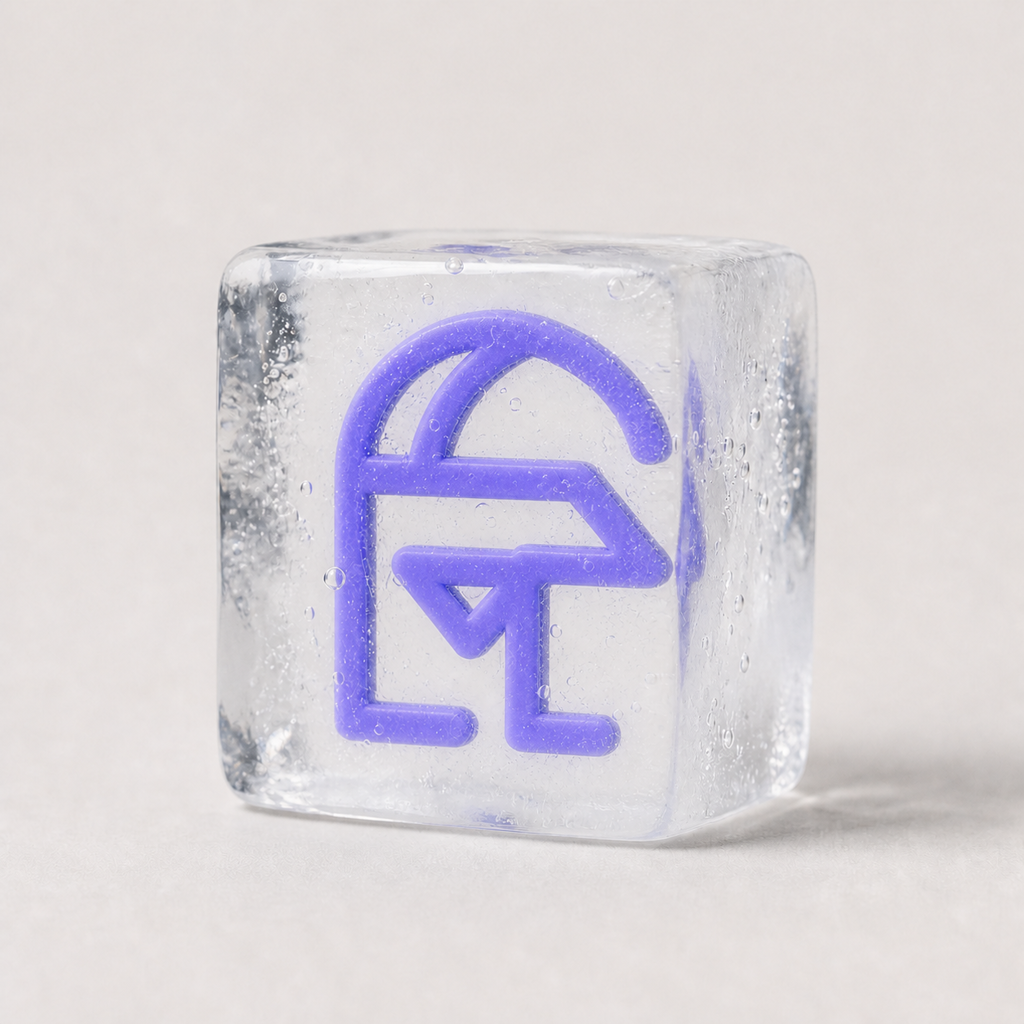
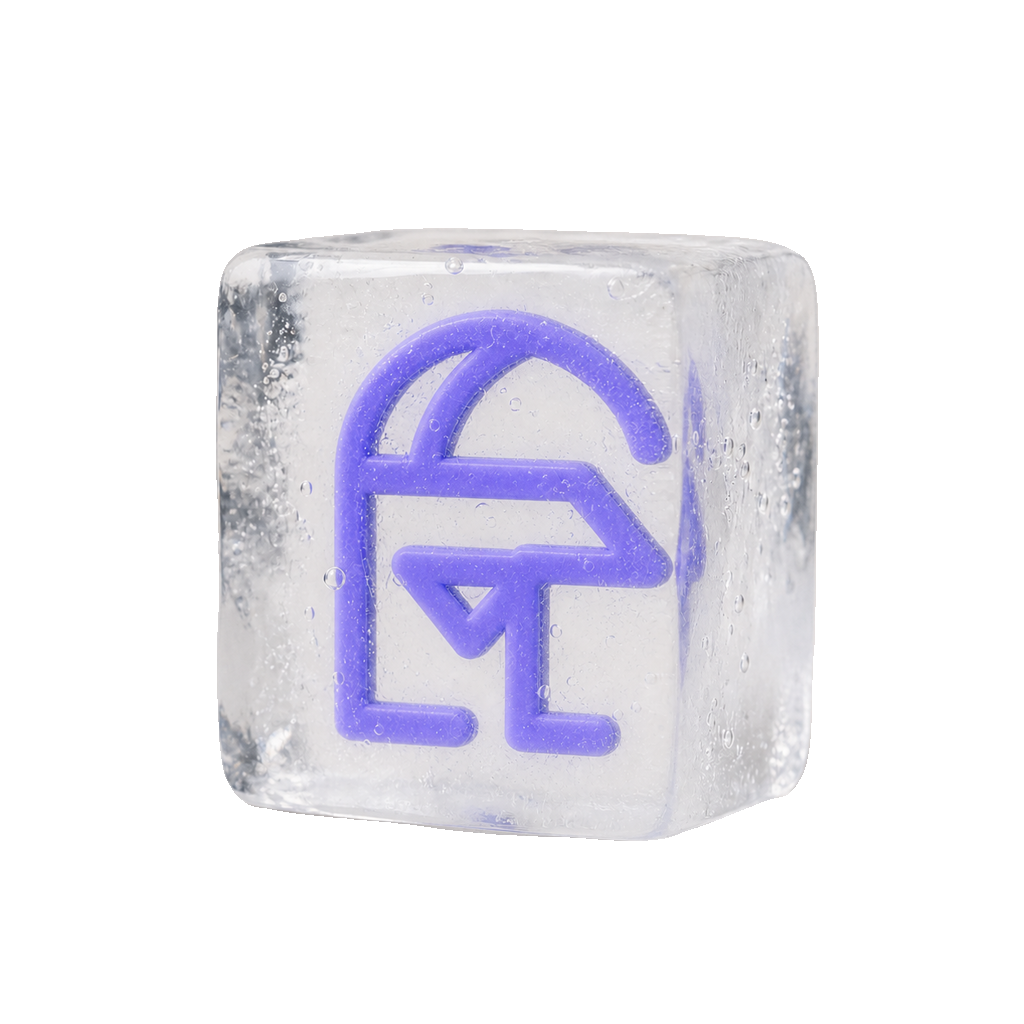
fix(brand): make ice hero background transparent

diff --git a/assets/brand/README.md b/assets/brand/README.md
@@ -7,10 +7,10 @@ The Pallas mark belongs to the shared Heliantheon visual family: geometric const
 | `mark.svg` | Primary full-color vector mark |
 | `mark-monochrome.svg` | Single-color mark for neutral surfaces |
 | `icon-512.png` | Raster icon for platforms that do not accept SVG |
-| `hero-ice.png` | Ice-block hero for README and promotional use |
+| `hero-ice.png` | Transparent ice-block hero for README and promotional use |
 
 - Accent: `#8B5CF6`
 - Keep clear space around the mark equal to at least one eighth of its width.
 - Do not stretch, rotate, recolor, add effects, or combine the mark with another product emblem.
 - Prefer the primary mark on white or very light neutral backgrounds; use the monochrome mark when color is unavailable.
-- Use the ice-block hero at 256 px or larger; do not use it as a favicon or small interface icon.
+- Use the ice-block hero at 256 px or larger, keep its canvas transparent, and do not use it as a favicon or small interface icon.
